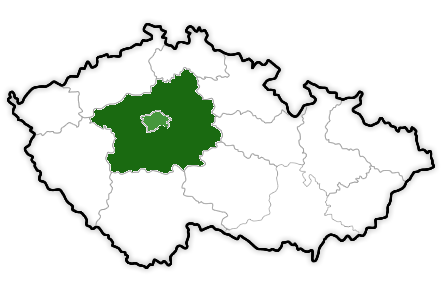
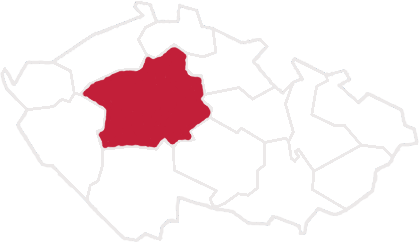
contact styling and adding of the map image

diff --git a/src/components/Contact.js b/src/components/Contact.js
@@ -1,38 +1,38 @@
 import React from 'react'
-// import map from '../assets/map.png'
+import map from '../assets/map.png'
 import '../styles/Contact.css'
 
 const Contact = () => (
   <div className="Contact">
     <div className="Contact-content">
-      <div className="Contact-inner-div">
-        <h1>Kontaktujte nás</h1>
-        <div className="Contact-companyName">
-          Arbovert
+      <h1>Kontaktujte nás</h1>
+      <div className="Contact-upperDiv">
+        <div className="Contact-inner-div">
+          <div className="Contact-companyName">
+            Arbovert
+          </div>
+          <div>
+            Lukáš Kačer
+          </div>
+          <div>
+            <a href="tel:+420739969933">(+420) 739 969 933</a><br/>
+            <a href="mailto:lukas@arbovert.cz">lukas@arbovert.cz</a>
+          </div>
         </div>
-        <div>
-          Lukáš Kačer
-        </div>
-        <div>
-          <a href="tel:+420739969933">(+420) 739 969 933</a><br/>
-          <a href="mailto:lukas@arbovert.cz">lukas@arbovert.cz</a>
-        </div>
-      </div>
-      {/*
-      <div className="Contact-inner-div-map">
-        <img style={{paddingLeft: '20px'}} src={map} />
-        <div style={{fontSize: '0.8em'}}>
-          Pusobime v Praze a stredoceskem kraji.
+        <div className="Contact-map">
+          <img src={map} />
         </div>
       </div>
-      */}
-      <div style={{padding: '50px', textAlign: 'center'}}>
-        <a href="https://facebook.com" class="icon-button facebook">
-          <i class="icon-facebook" />
+      <div>
+        Pusobime v Praze a stredoceskem kraji
+      </div>
+      <div className="Contact-socialMedia">
+        <a href="https://facebook.com" className="icon-button facebook">
+          <i className="icon-facebook" />
           <span />
         </a>
-        <a href="https://plus.google.com" class="icon-button google-plus">
-          <i class="icon-google-plus" />
+        <a href="https://plus.google.com" className="icon-button google-plus">
+          <i className="icon-google-plus" />
           <span />
         </a>
       </div>

diff --git a/src/styles/Contact.css b/src/styles/Contact.css
@@ -21,13 +21,21 @@
     color: #ECE9E9;
 }
 
+.Contact-upperDiv {
+    display: flex;
+}
+
 .Contact-inner-div {
     width: 50vw;
 }
 
-.Contact-inner-div-map {
+.Contact-map {
     width: 50vw;
-    padding-top: 50px;
+    font-size: 0.8em;
+}
+
+.Contact-map img {
+  max-width: 50vw;
 }
 
 .Contact-companyName {
@@ -44,29 +52,43 @@
     width: 45vw;
 }
 
+.Contact-socialMedia {
+    padding: 50px;
+    text-align: center;
+}
+
 @media (max-width: 767px) {
     .Contact {
         padding: 0;
         font-size: 0.5em;
-        background-image: url('../assets/background2.jpg');
+        background: center no-repeat url('../assets/background1.jpg');
     }
 
     .Contact-content {
         margin-top: 0;
-        padding: 0;
-        eight: 100vh;
+        height: 100%;
+        min-height: 100vh;
         text-align: center;
         background: rgba(0,0,0,0.5);
         flex-direction: column;
         align-items: center;
     }
 
-    .Contact-inner-div {
+    .Contact-content h1 {
+        padding-top: 20px;
+    }
+
+    .Contact-inner-div,
+    .Contact-map {
         width: 100vw;
     }
 
-    .Contact-inner-div h1 {
-        padding: 70px 0 0 0;
+    .Contact-map {
+        padding: 20px 0;
+    }
+
+    .Contact-upperDiv {
+        flex-direction: column;
     }
 }
 

diff --git a/src/styles/Welcome.css b/src/styles/Welcome.css
@@ -17,11 +17,12 @@
     .Welcome {
         padding: 0;
         font-size: 0.5em;
-        background-image: url('../assets/background1.jpg');
+        background: center no-repeat url('../assets/background1.jpg');
     }
 
     .Welcome-content {
         padding: 30px;
+        height: 100vh;
     }
 
     .Welcome-question h1 {

diff --git a/src/styles/Service.css b/src/styles/Service.css
@@ -58,12 +58,9 @@
         align-items: center;
     }
 
-    .Service-arbo h1 {
-        padding: 70px 0 0 0;
-    }
-
+    .Service-arbo h1,
     .Service-work h1 {
-        padding: 0;
+        padding: 70px 0 0 0;
     }
 }
 
